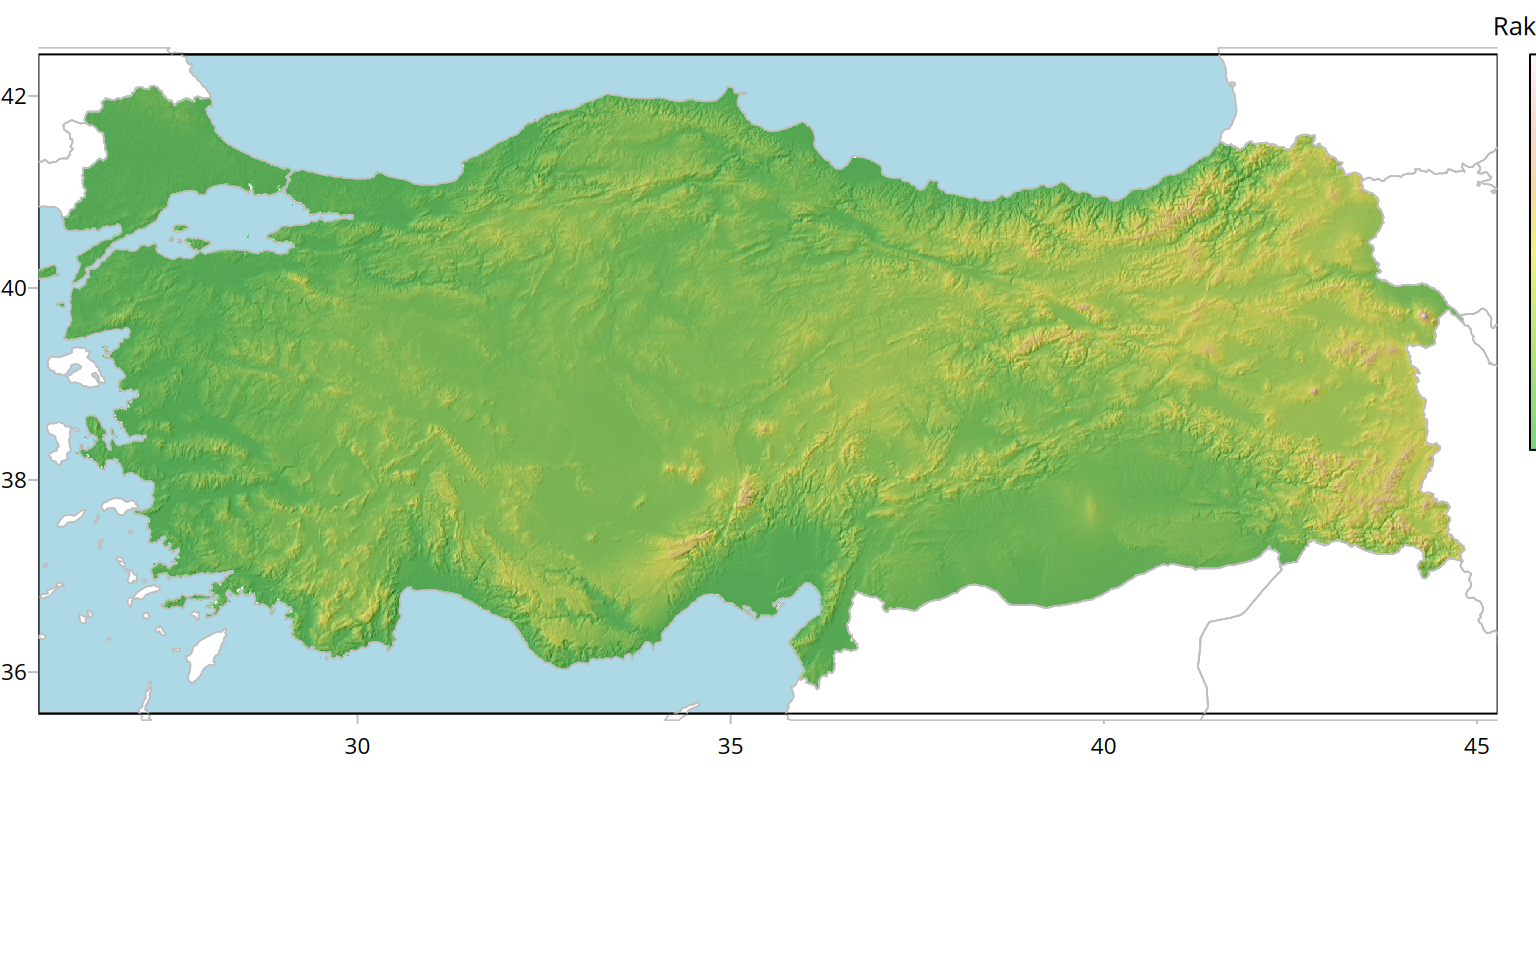
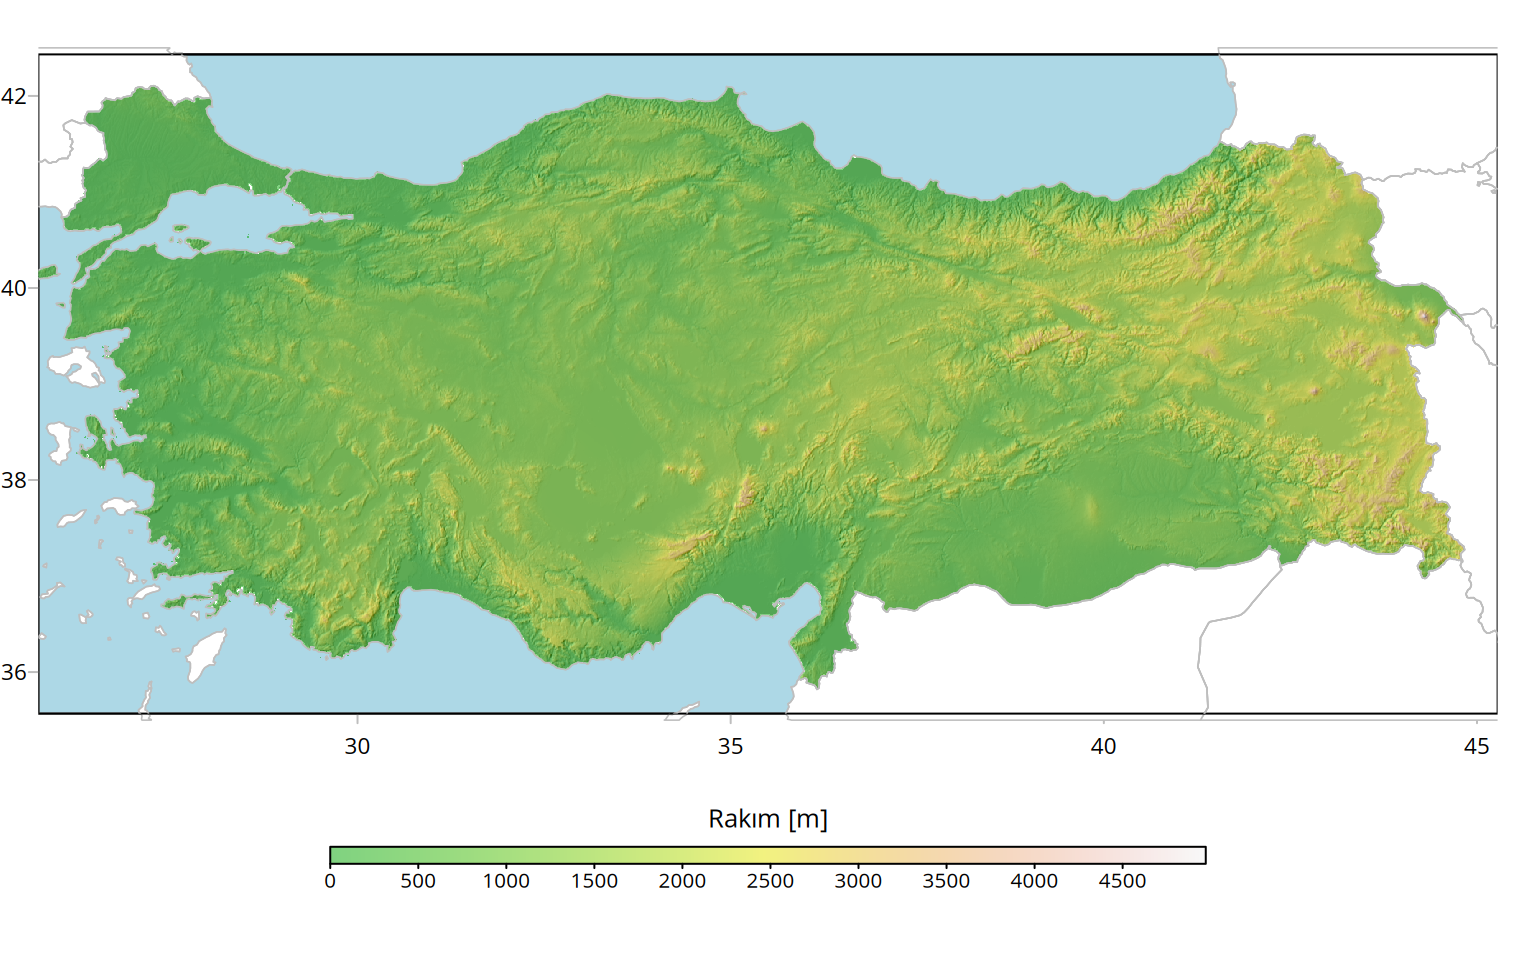
I changed plot argument

Changed region(s): [[0.1875, 0.8438, 0.7812, 0.9375], [0.9688, 0.0938, 1.0, 0.4688], [0.9688, 0.0, 1.0, 0.0625]]

diff --git a/docs/posts/dem/dem.html b/docs/posts/dem/dem.html
@@ -1,5 +1,5 @@
 <!DOCTYPE html>
-<html xmlns="http://www.w3.org/1999/xhtml" lang="en" xml:lang="en"><head>
+<html xmlns="http://www.w3.org/1999/xhtml" lang="tr" xml:lang="tr"><head>
 
 <meta charset="utf-8">
 <meta name="generator" content="quarto-1.7.31">
@@ -7,7 +7,6 @@
 <meta name="viewport" content="width=device-width, initial-scale=1.0, user-scalable=yes">
 
 <meta name="author" content="Mehmet Göktuğ ÖZTÜRK">
-<meta name="dcterms.date" content="2025-03-03">
 <meta name="description" content="R ile Topografik Veri İndirme">
 
 <title>R İLE TOPOGRAFIK VERİ İNDİRME - DEM VERİSİ İNDİRME VE GÖRSELLEŞTİRME – R DELİSİ</title>
@@ -86,7 +85,7 @@ pre > code.sourceCode > span > a:first-child::before { text-decoration: underlin
     
     <div class="site-header__brand">
       <a class="site-header__title" href="../../">R DELİSİ</a>
-      <p class="site-header__tagline">R, veri bilimi, ekoloji ve notlar</p>
+      <p class="site-header__tagline">R • Ekoloji • Veri Bilimi</p>
     </div>
 
     <nav class="site-header__links" aria-label="Kısayollar">
@@ -101,11 +100,11 @@ pre > code.sourceCode > span > a:first-child::before { text-decoration: underlin
 <h1 class="title">R İLE TOPOGRAFIK VERİ İNDİRME - DEM VERİSİ İNDİRME VE GÖRSELLEŞTİRME</h1>
 <p class="author">Mehmet Göktuğ ÖZTÜRK</p>
 
-<p class="date">2025-03-03</p>
+<p class="date">3 Mar 2025</p>
 </header>
 
 <nav id="TOC" role="doc-toc">
-    <h2 id="toc-title">On this page</h2>
+    <h2 id="toc-title">Bu sayfada</h2>
    
   <ul>
   <li><a href="#yazinin-akişi" id="toc-yazinin-akişi">YAZININ AKIŞI</a></li>
@@ -134,7 +133,7 @@ pre > code.sourceCode > span > a:first-child::before { text-decoration: underlin
 <span id="cb1-3"><a href="#cb1-3" aria-hidden="true" tabindex="-1"></a>  <span class="st">"terra"</span>,  <span class="co"># mekansal raster ve vektor verileri islemek icin, {raster}'in halefi</span></span>
 <span id="cb1-4"><a href="#cb1-4" aria-hidden="true" tabindex="-1"></a>  <span class="st">"geodata"</span> <span class="co"># bazi mekansal verilere erismek icin </span></span>
 <span id="cb1-5"><a href="#cb1-5" aria-hidden="true" tabindex="-1"></a>)</span>
-<span id="cb1-6"><a href="#cb1-6" aria-hidden="true" tabindex="-1"></a><span class="fu">sapply</span>(libs, require, <span class="at">character.only =</span> <span class="cn">TRUE</span>)</span></code><button title="Copy to Clipboard" class="code-copy-button"><i class="bi"></i></button></pre></div>
+<span id="cb1-6"><a href="#cb1-6" aria-hidden="true" tabindex="-1"></a><span class="fu">sapply</span>(libs, require, <span class="at">character.only =</span> <span class="cn">TRUE</span>)</span></code><button title="Panoya Kopyala" class="code-copy-button"><i class="bi"></i></button></pre></div>
 <div class="cell-output cell-output-stdout">
 <pre><code>  terra geodata 
    TRUE    TRUE </code></pre>
@@ -145,7 +144,7 @@ pre > code.sourceCode > span > a:first-child::before { text-decoration: underlin
 <p>Bu yazıda SRTM verisini, <code>geodata</code> paketini kullanarak indireceğiz. Bu paket ile, GADM, SRTM, Worldclim, OSM gibi birçok farklı veriyi kolaylıkla indirebiliriz.</p>
 <p>Öncelikle paketin içerdiği fonksiyonlara bir bakalım.</p>
 <div class="cell">
-<div class="sourceCode cell-code" id="cb3"><pre class="sourceCode r code-with-copy"><code class="sourceCode r"><span id="cb3-1"><a href="#cb3-1" aria-hidden="true" tabindex="-1"></a><span class="fu">ls</span>(<span class="st">"package:geodata"</span>)</span></code><button title="Copy to Clipboard" class="code-copy-button"><i class="bi"></i></button></pre></div>
+<div class="sourceCode cell-code" id="cb3"><pre class="sourceCode r code-with-copy"><code class="sourceCode r"><span id="cb3-1"><a href="#cb3-1" aria-hidden="true" tabindex="-1"></a><span class="fu">ls</span>(<span class="st">"package:geodata"</span>)</span></code><button title="Panoya Kopyala" class="code-copy-button"><i class="bi"></i></button></pre></div>
 <div class="cell-output cell-output-stdout">
 <pre><code> [1] "bio_oracle"          "cmip6_tile"          "cmip6_world"        
  [4] "country_codes"       "crop_calendar_sacks" "crop_monfreda"      
@@ -164,7 +163,7 @@ pre > code.sourceCode > span > a:first-child::before { text-decoration: underlin
 <p>Bizim işimize yarayacak fonkiyon <code>elevation_30s()</code>. Ülke kodu için <code>country</code> argümanını, DEM verisinin Türkiye sınırlarına göre maskelemek için <code>mask</code> argümanını ve veriyi kaydeceğimiz yer için ise <code>path</code> argümanını kullanıyoruz. Ben <code>tempfile()</code> fonksiyonu ile geçici bir dosya oluşturdum. Dilerseniz yereldeki herhangi bir dizine de kaydedebilirsiniz.</p>
 <div class="cell">
 <div class="sourceCode cell-code" id="cb5"><pre class="sourceCode r code-with-copy"><code class="sourceCode r"><span id="cb5-1"><a href="#cb5-1" aria-hidden="true" tabindex="-1"></a>dem <span class="ot">&lt;-</span> <span class="fu">elevation_30s</span>(<span class="at">country =</span> <span class="st">"TUR"</span>, <span class="at">mask =</span> <span class="cn">TRUE</span>, <span class="at">path =</span> <span class="fu">tempfile</span>())</span>
-<span id="cb5-2"><a href="#cb5-2" aria-hidden="true" tabindex="-1"></a>dem</span></code><button title="Copy to Clipboard" class="code-copy-button"><i class="bi"></i></button></pre></div>
+<span id="cb5-2"><a href="#cb5-2" aria-hidden="true" tabindex="-1"></a>dem</span></code><button title="Panoya Kopyala" class="code-copy-button"><i class="bi"></i></button></pre></div>
 <div class="cell-output cell-output-stdout">
 <pre><code>class       : SpatRaster 
 size        : 792, 2340, 1  (nrow, ncol, nlyr)
@@ -178,7 +177,7 @@ max value   :        4972 </code></pre>
 </div>
 </div>
 <div class="cell">
-<div class="sourceCode cell-code" id="cb7"><pre class="sourceCode r code-with-copy"><code class="sourceCode r"><span id="cb7-1"><a href="#cb7-1" aria-hidden="true" tabindex="-1"></a><span class="fu">nrow</span>(dem) <span class="sc">*</span> <span class="fu">ncol</span>(dem)</span></code><button title="Copy to Clipboard" class="code-copy-button"><i class="bi"></i></button></pre></div>
+<div class="sourceCode cell-code" id="cb7"><pre class="sourceCode r code-with-copy"><code class="sourceCode r"><span id="cb7-1"><a href="#cb7-1" aria-hidden="true" tabindex="-1"></a><span class="fu">nrow</span>(dem) <span class="sc">*</span> <span class="fu">ncol</span>(dem)</span></code><button title="Panoya Kopyala" class="code-copy-button"><i class="bi"></i></button></pre></div>
 <div class="cell-output cell-output-stdout">
 <pre><code>[1] 1853280</code></pre>
 </div>
@@ -190,7 +189,7 @@ max value   :        4972 </code></pre>
 <span id="cb9-2"><a href="#cb9-2" aria-hidden="true" tabindex="-1"></a>  dem, </span>
 <span id="cb9-3"><a href="#cb9-3" aria-hidden="true" tabindex="-1"></a>  <span class="at">rcl =</span> <span class="fu">matrix</span>(<span class="fu">c</span>(<span class="sc">-</span><span class="cn">Inf</span>, <span class="dv">0</span>, <span class="dv">0</span>), <span class="at">ncol =</span> <span class="dv">3</span>, <span class="at">byrow =</span> <span class="cn">TRUE</span>)</span>
 <span id="cb9-4"><a href="#cb9-4" aria-hidden="true" tabindex="-1"></a>)</span>
-<span id="cb9-5"><a href="#cb9-5" aria-hidden="true" tabindex="-1"></a>dem</span></code><button title="Copy to Clipboard" class="code-copy-button"><i class="bi"></i></button></pre></div>
+<span id="cb9-5"><a href="#cb9-5" aria-hidden="true" tabindex="-1"></a>dem</span></code><button title="Panoya Kopyala" class="code-copy-button"><i class="bi"></i></button></pre></div>
 <div class="cell-output cell-output-stdout">
 <pre><code>class       : SpatRaster 
 size        : 792, 2340, 1  (nrow, ncol, nlyr)
@@ -207,7 +206,7 @@ max value   :        4972 </code></pre>
 <p>Gördüğünüz gibi minimum değer artık 0’dan başlıyor.</p>
 <p>Şimdi basitçe görselleştirelim.</p>
 <div class="cell" data-fig-heigh="3">
-<div class="sourceCode cell-code" id="cb11"><pre class="sourceCode r code-with-copy"><code class="sourceCode r"><span id="cb11-1"><a href="#cb11-1" aria-hidden="true" tabindex="-1"></a><span class="fu">plot</span>(dem)</span></code><button title="Copy to Clipboard" class="code-copy-button"><i class="bi"></i></button></pre></div>
+<div class="sourceCode cell-code" id="cb11"><pre class="sourceCode r code-with-copy"><code class="sourceCode r"><span id="cb11-1"><a href="#cb11-1" aria-hidden="true" tabindex="-1"></a><span class="fu">plot</span>(dem)</span></code><button title="Panoya Kopyala" class="code-copy-button"><i class="bi"></i></button></pre></div>
 <div class="cell-output-display">
 <div>
 <figure>
@@ -227,11 +226,11 @@ max value   :        4972 </code></pre>
 <span id="cb12-6"><a href="#cb12-6" aria-hidden="true" tabindex="-1"></a>  <span class="at">angle =</span> <span class="dv">45</span>,</span>
 <span id="cb12-7"><a href="#cb12-7" aria-hidden="true" tabindex="-1"></a>  <span class="at">direction =</span> <span class="dv">300</span>,</span>
 <span id="cb12-8"><a href="#cb12-8" aria-hidden="true" tabindex="-1"></a>  <span class="at">normalize =</span> <span class="cn">TRUE</span></span>
-<span id="cb12-9"><a href="#cb12-9" aria-hidden="true" tabindex="-1"></a>)</span></code><button title="Copy to Clipboard" class="code-copy-button"><i class="bi"></i></button></pre></div>
+<span id="cb12-9"><a href="#cb12-9" aria-hidden="true" tabindex="-1"></a>)</span></code><button title="Panoya Kopyala" class="code-copy-button"><i class="bi"></i></button></pre></div>
 </div>
 <p>Bir bakalım nasıl görünüyorlar. Çoğu durumda <code>plot(data)</code> yeterince iyi sonuç veriyor ancak daha yüksek çözünürlüklü bir görüntü için <code>maxcell</code> argümanını değiştireceğim. İşlem biraz yavaşlayabilir.</p>
 <div class="cell" data-fig-heigh="3">
-<div class="sourceCode cell-code" id="cb13"><pre class="sourceCode r code-with-copy"><code class="sourceCode r"><span id="cb13-1"><a href="#cb13-1" aria-hidden="true" tabindex="-1"></a><span class="fu">plot</span>(slp, <span class="at">maxcell =</span> <span class="fu">prod</span>(<span class="fu">dim</span>(slp))) <span class="co"># sutun ve satir sayisini carpip hucre sayisini hesapliyorum</span></span></code><button title="Copy to Clipboard" class="code-copy-button"><i class="bi"></i></button></pre></div>
+<div class="sourceCode cell-code" id="cb13"><pre class="sourceCode r code-with-copy"><code class="sourceCode r"><span id="cb13-1"><a href="#cb13-1" aria-hidden="true" tabindex="-1"></a><span class="fu">plot</span>(slp, <span class="at">maxcell =</span> <span class="fu">prod</span>(<span class="fu">dim</span>(slp))) <span class="co"># sutun ve satir sayisini carpip hucre sayisini hesapliyorum</span></span></code><button title="Panoya Kopyala" class="code-copy-button"><i class="bi"></i></button></pre></div>
 <div class="cell-output-display">
 <div>
 <figure>
@@ -241,7 +240,7 @@ max value   :        4972 </code></pre>
 </div>
 </div>
 <div class="cell" data-fig-heigh="3">
-<div class="sourceCode cell-code" id="cb14"><pre class="sourceCode r code-with-copy"><code class="sourceCode r"><span id="cb14-1"><a href="#cb14-1" aria-hidden="true" tabindex="-1"></a><span class="fu">plot</span>(asp, <span class="at">maxcell =</span> <span class="fu">prod</span>(<span class="fu">dim</span>(asp)))</span></code><button title="Copy to Clipboard" class="code-copy-button"><i class="bi"></i></button></pre></div>
+<div class="sourceCode cell-code" id="cb14"><pre class="sourceCode r code-with-copy"><code class="sourceCode r"><span id="cb14-1"><a href="#cb14-1" aria-hidden="true" tabindex="-1"></a><span class="fu">plot</span>(asp, <span class="at">maxcell =</span> <span class="fu">prod</span>(<span class="fu">dim</span>(asp)))</span></code><button title="Panoya Kopyala" class="code-copy-button"><i class="bi"></i></button></pre></div>
 <div class="cell-output-display">
 <div>
 <figure>
@@ -251,7 +250,7 @@ max value   :        4972 </code></pre>
 </div>
 </div>
 <div class="cell" data-fig-heigh="3">
-<div class="sourceCode cell-code" id="cb15"><pre class="sourceCode r code-with-copy"><code class="sourceCode r"><span id="cb15-1"><a href="#cb15-1" aria-hidden="true" tabindex="-1"></a><span class="fu">plot</span>(hillshade, <span class="at">maxcell =</span> <span class="fu">prod</span>(<span class="fu">dim</span>(hillshade)), <span class="at">col =</span> <span class="fu">grey</span>(<span class="dv">0</span><span class="sc">:</span><span class="dv">100</span><span class="sc">/</span><span class="dv">100</span>))</span></code><button title="Copy to Clipboard" class="code-copy-button"><i class="bi"></i></button></pre></div>
+<div class="sourceCode cell-code" id="cb15"><pre class="sourceCode r code-with-copy"><code class="sourceCode r"><span id="cb15-1"><a href="#cb15-1" aria-hidden="true" tabindex="-1"></a><span class="fu">plot</span>(hillshade, <span class="at">maxcell =</span> <span class="fu">prod</span>(<span class="fu">dim</span>(hillshade)), <span class="at">col =</span> <span class="fu">grey</span>(<span class="dv">0</span><span class="sc">:</span><span class="dv">100</span><span class="sc">/</span><span class="dv">100</span>))</span></code><button title="Panoya Kopyala" class="code-copy-button"><i class="bi"></i></button></pre></div>
 <div class="cell-output-display">
 <div>
 <figure>
@@ -265,7 +264,7 @@ max value   :        4972 </code></pre>
 <div class="sourceCode cell-code" id="cb16"><pre class="sourceCode r code-with-copy"><code class="sourceCode r"><span id="cb16-1"><a href="#cb16-1" aria-hidden="true" tabindex="-1"></a>adm <span class="ot">&lt;-</span> <span class="fu">world</span>(<span class="at">resolution =</span> <span class="dv">1</span>, <span class="at">path =</span> <span class="fu">tempfile</span>())</span>
 <span id="cb16-2"><a href="#cb16-2" aria-hidden="true" tabindex="-1"></a>ext <span class="ot">&lt;-</span> <span class="fu">vect</span>(<span class="fu">ext</span>(<span class="fu">c</span>(<span class="fl">25.7</span>, <span class="fl">45.3</span>, <span class="fl">35.5</span>, <span class="fl">42.5</span>)), <span class="at">crs =</span> <span class="st">"EPSG:4326"</span>)</span>
 <span id="cb16-3"><a href="#cb16-3" aria-hidden="true" tabindex="-1"></a>adm <span class="ot">&lt;-</span> <span class="fu">crop</span>(adm, ext)</span>
-<span id="cb16-4"><a href="#cb16-4" aria-hidden="true" tabindex="-1"></a>adm</span></code><button title="Copy to Clipboard" class="code-copy-button"><i class="bi"></i></button></pre></div>
+<span id="cb16-4"><a href="#cb16-4" aria-hidden="true" tabindex="-1"></a>adm</span></code><button title="Panoya Kopyala" class="code-copy-button"><i class="bi"></i></button></pre></div>
 <div class="cell-output cell-output-stdout">
 <pre><code> class       : SpatVector 
  geometry    : polygons 
@@ -280,7 +279,7 @@ max value   :        4972 </code></pre>
 </div>
 </div>
 <div class="cell" data-fig-heigh="3">
-<div class="sourceCode cell-code" id="cb18"><pre class="sourceCode r code-with-copy"><code class="sourceCode r"><span id="cb18-1"><a href="#cb18-1" aria-hidden="true" tabindex="-1"></a><span class="fu">plot</span>(adm)</span></code><button title="Copy to Clipboard" class="code-copy-button"><i class="bi"></i></button></pre></div>
+<div class="sourceCode cell-code" id="cb18"><pre class="sourceCode r code-with-copy"><code class="sourceCode r"><span id="cb18-1"><a href="#cb18-1" aria-hidden="true" tabindex="-1"></a><span class="fu">plot</span>(adm)</span></code><button title="Panoya Kopyala" class="code-copy-button"><i class="bi"></i></button></pre></div>
 <div class="cell-output-display">
 <div>
 <figure>
@@ -304,7 +303,7 @@ max value   :        4972 </code></pre>
 <span id="cb19-9"><a href="#cb19-9" aria-hidden="true" tabindex="-1"></a>  <span class="at">axes =</span> <span class="cn">TRUE</span>,               <span class="co"># eksenleri cizmek icin</span></span>
 <span id="cb19-10"><a href="#cb19-10" aria-hidden="true" tabindex="-1"></a>  <span class="at">mar =</span> <span class="fu">c</span>(<span class="dv">2</span>, <span class="dv">1</span>, <span class="dv">0</span>, <span class="dv">1</span>),       <span class="co"># plot'un marginlerini belirtiyor (alt, sol, ust, sag)</span></span>
 <span id="cb19-11"><a href="#cb19-11" aria-hidden="true" tabindex="-1"></a>  <span class="at">las =</span> <span class="dv">1</span>                    <span class="co"># en cok gozden kacan nokta, y eksenininin etiketlerini yatay yapiyor</span></span>
-<span id="cb19-12"><a href="#cb19-12" aria-hidden="true" tabindex="-1"></a>)</span></code><button title="Copy to Clipboard" class="code-copy-button"><i class="bi"></i></button></pre></div>
+<span id="cb19-12"><a href="#cb19-12" aria-hidden="true" tabindex="-1"></a>)</span></code><button title="Panoya Kopyala" class="code-copy-button"><i class="bi"></i></button></pre></div>
 <div class="cell-output-display">
 <div>
 <figure>
@@ -330,7 +329,7 @@ max value   :        4972 </code></pre>
 <span id="cb20-13"><a href="#cb20-13" aria-hidden="true" tabindex="-1"></a>  <span class="at">add =</span> <span class="cn">TRUE</span>,               <span class="co"># ilk plot'un uzerine cizebilmek icin</span></span>
 <span id="cb20-14"><a href="#cb20-14" aria-hidden="true" tabindex="-1"></a>  <span class="at">legend =</span> <span class="cn">TRUE</span>,</span>
 <span id="cb20-15"><a href="#cb20-15" aria-hidden="true" tabindex="-1"></a>  <span class="at">plg =</span> <span class="fu">list</span>(               <span class="co"># terra::plot'ta lejant ayarlari icin</span></span>
-<span id="cb20-16"><a href="#cb20-16" aria-hidden="true" tabindex="-1"></a>    <span class="at">loc =</span> <span class="st">"bottom"</span>,         <span class="co"># lejanti asagiya ciz</span></span>
+<span id="cb20-16"><a href="#cb20-16" aria-hidden="true" tabindex="-1"></a>    <span class="at">x =</span> <span class="st">"bottom"</span>,         <span class="co"># lejanti asagiya ciz</span></span>
 <span id="cb20-17"><a href="#cb20-17" aria-hidden="true" tabindex="-1"></a>    <span class="at">size =</span> <span class="fu">c</span>(<span class="fl">0.6</span>, <span class="fl">0.7</span>),     <span class="co"># lejant boyutu</span></span>
 <span id="cb20-18"><a href="#cb20-18" aria-hidden="true" tabindex="-1"></a>    <span class="at">cex =</span> <span class="fl">0.8</span>,              <span class="co"># yazi boyutu</span></span>
 <span id="cb20-19"><a href="#cb20-19" aria-hidden="true" tabindex="-1"></a>    <span class="at">at =</span> <span class="fu">seq</span>(<span class="dv">0</span>, <span class="dv">4500</span>, <span class="dv">500</span>), <span class="co"># lejant etiketleri</span></span>
@@ -345,7 +344,7 @@ max value   :        4972 </code></pre>
 <span id="cb20-28"><a href="#cb20-28" aria-hidden="true" tabindex="-1"></a>  <span class="at">labcex =</span> <span class="fl">0.38</span>, <span class="co"># label boyutu</span></span>
 <span id="cb20-29"><a href="#cb20-29" aria-hidden="true" tabindex="-1"></a>  <span class="at">col =</span> scales<span class="sc">::</span><span class="fu">alpha</span>(<span class="st">"grey40"</span>, <span class="fl">0.7</span>), </span>
 <span id="cb20-30"><a href="#cb20-30" aria-hidden="true" tabindex="-1"></a>  <span class="at">add =</span> <span class="cn">TRUE</span></span>
-<span id="cb20-31"><a href="#cb20-31" aria-hidden="true" tabindex="-1"></a>)</span></code><button title="Copy to Clipboard" class="code-copy-button"><i class="bi"></i></button></pre></div>
+<span id="cb20-31"><a href="#cb20-31" aria-hidden="true" tabindex="-1"></a>)</span></code><button title="Panoya Kopyala" class="code-copy-button"><i class="bi"></i></button></pre></div>
 <div class="cell-output-display">
 <div>
 <figure>
@@ -385,7 +384,7 @@ max value   :        4972 </code></pre>
 <span id="cb21-27"><a href="#cb21-27" aria-hidden="true" tabindex="-1"></a>  <span class="at">add =</span> <span class="cn">TRUE</span>,</span>
 <span id="cb21-28"><a href="#cb21-28" aria-hidden="true" tabindex="-1"></a>  <span class="at">legend =</span> <span class="cn">TRUE</span>,</span>
 <span id="cb21-29"><a href="#cb21-29" aria-hidden="true" tabindex="-1"></a>  <span class="at">plg =</span> <span class="fu">list</span>(</span>
-<span id="cb21-30"><a href="#cb21-30" aria-hidden="true" tabindex="-1"></a>    <span class="at">loc =</span> <span class="st">"bottom"</span>,</span>
+<span id="cb21-30"><a href="#cb21-30" aria-hidden="true" tabindex="-1"></a>    <span class="at">x =</span> <span class="st">"bottom"</span>,</span>
 <span id="cb21-31"><a href="#cb21-31" aria-hidden="true" tabindex="-1"></a>    <span class="at">size =</span> <span class="fu">c</span>(<span class="fl">0.6</span>, <span class="fl">0.7</span>),</span>
 <span id="cb21-32"><a href="#cb21-32" aria-hidden="true" tabindex="-1"></a>    <span class="at">cex =</span> <span class="fl">0.8</span>,</span>
 <span id="cb21-33"><a href="#cb21-33" aria-hidden="true" tabindex="-1"></a>    <span class="at">at =</span> <span class="fu">seq</span>(<span class="dv">0</span>, <span class="dv">4500</span>, <span class="dv">500</span>),</span>
@@ -394,7 +393,7 @@ max value   :        4972 </code></pre>
 <span id="cb21-36"><a href="#cb21-36" aria-hidden="true" tabindex="-1"></a>    <span class="at">title.cex =</span> <span class="fl">0.8</span></span>
 <span id="cb21-37"><a href="#cb21-37" aria-hidden="true" tabindex="-1"></a>  )</span>
 <span id="cb21-38"><a href="#cb21-38" aria-hidden="true" tabindex="-1"></a>)</span>
-<span id="cb21-39"><a href="#cb21-39" aria-hidden="true" tabindex="-1"></a><span class="fu">plot</span>(adm, <span class="at">border =</span> <span class="st">"grey"</span>, <span class="at">lwd =</span> <span class="fl">0.8</span>, <span class="at">add =</span> <span class="cn">TRUE</span>) <span class="co"># sinirlari vurgulu cizmek icin tekrar ekledim</span></span></code><button title="Copy to Clipboard" class="code-copy-button"><i class="bi"></i></button></pre></div>
+<span id="cb21-39"><a href="#cb21-39" aria-hidden="true" tabindex="-1"></a><span class="fu">plot</span>(adm, <span class="at">border =</span> <span class="st">"grey"</span>, <span class="at">lwd =</span> <span class="fl">0.8</span>, <span class="at">add =</span> <span class="cn">TRUE</span>) <span class="co"># sinirlari vurgulu cizmek icin tekrar ekledim</span></span></code><button title="Panoya Kopyala" class="code-copy-button"><i class="bi"></i></button></pre></div>
 <div class="cell-output-display">
 <div>
 <figure>
@@ -431,7 +430,7 @@ max value   :        4972 </code></pre>
 <span id="cb22-23"><a href="#cb22-23" aria-hidden="true" tabindex="-1"></a>  <span class="at">tck =</span> <span class="sc">-</span><span class="fl">0.030</span> <span class="sc">/</span> <span class="dv">4</span>,           <span class="co"># tik boyutu kucuk olsun</span></span>
 <span id="cb22-24"><a href="#cb22-24" aria-hidden="true" tabindex="-1"></a>  <span class="at">labels =</span> <span class="cn">FALSE</span>              <span class="co"># etiket olmamasi icin</span></span>
 <span id="cb22-25"><a href="#cb22-25" aria-hidden="true" tabindex="-1"></a>) </span>
-<span id="cb22-26"><a href="#cb22-26" aria-hidden="true" tabindex="-1"></a><span class="fu">box</span>()                         <span class="co"># eksenlere kutu cizmek icin</span></span></code><button title="Copy to Clipboard" class="code-copy-button"><i class="bi"></i></button></pre></div>
+<span id="cb22-26"><a href="#cb22-26" aria-hidden="true" tabindex="-1"></a><span class="fu">box</span>()                         <span class="co"># eksenlere kutu cizmek icin</span></span></code><button title="Panoya Kopyala" class="code-copy-button"><i class="bi"></i></button></pre></div>
 <div class="cell-output-display">
 <div>
 <figure>
@@ -467,12 +466,12 @@ max value   :        4972 </code></pre>
       // flash "checked"
       button.classList.add('code-copy-button-checked');
       var currentTitle = button.getAttribute("title");
-      button.setAttribute("title", "Copied!");
+      button.setAttribute("title", "Kopyalandı");
       let tooltip;
       if (window.bootstrap) {
         button.setAttribute("data-bs-toggle", "tooltip");
         button.setAttribute("data-bs-placement", "left");
-        button.setAttribute("data-bs-title", "Copied!");
+        button.setAttribute("data-bs-title", "Kopyalandı");
         tooltip = new bootstrap.Tooltip(button, 
           { trigger: "manual", 
             customClass: "code-copy-button-tooltip",